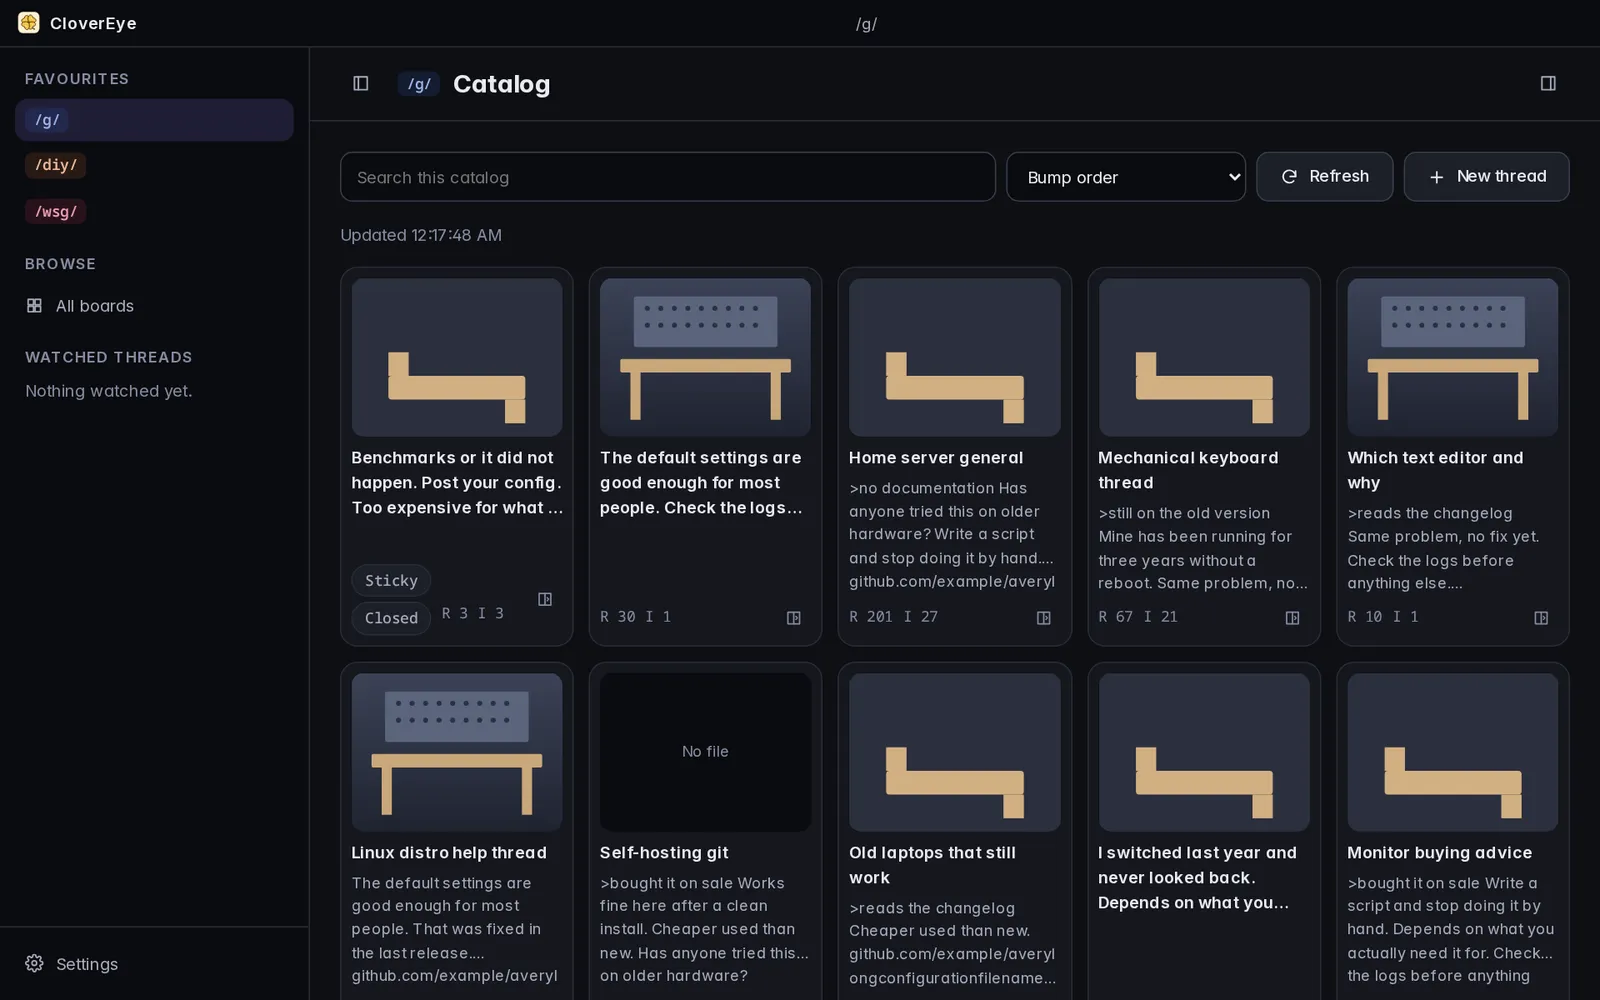
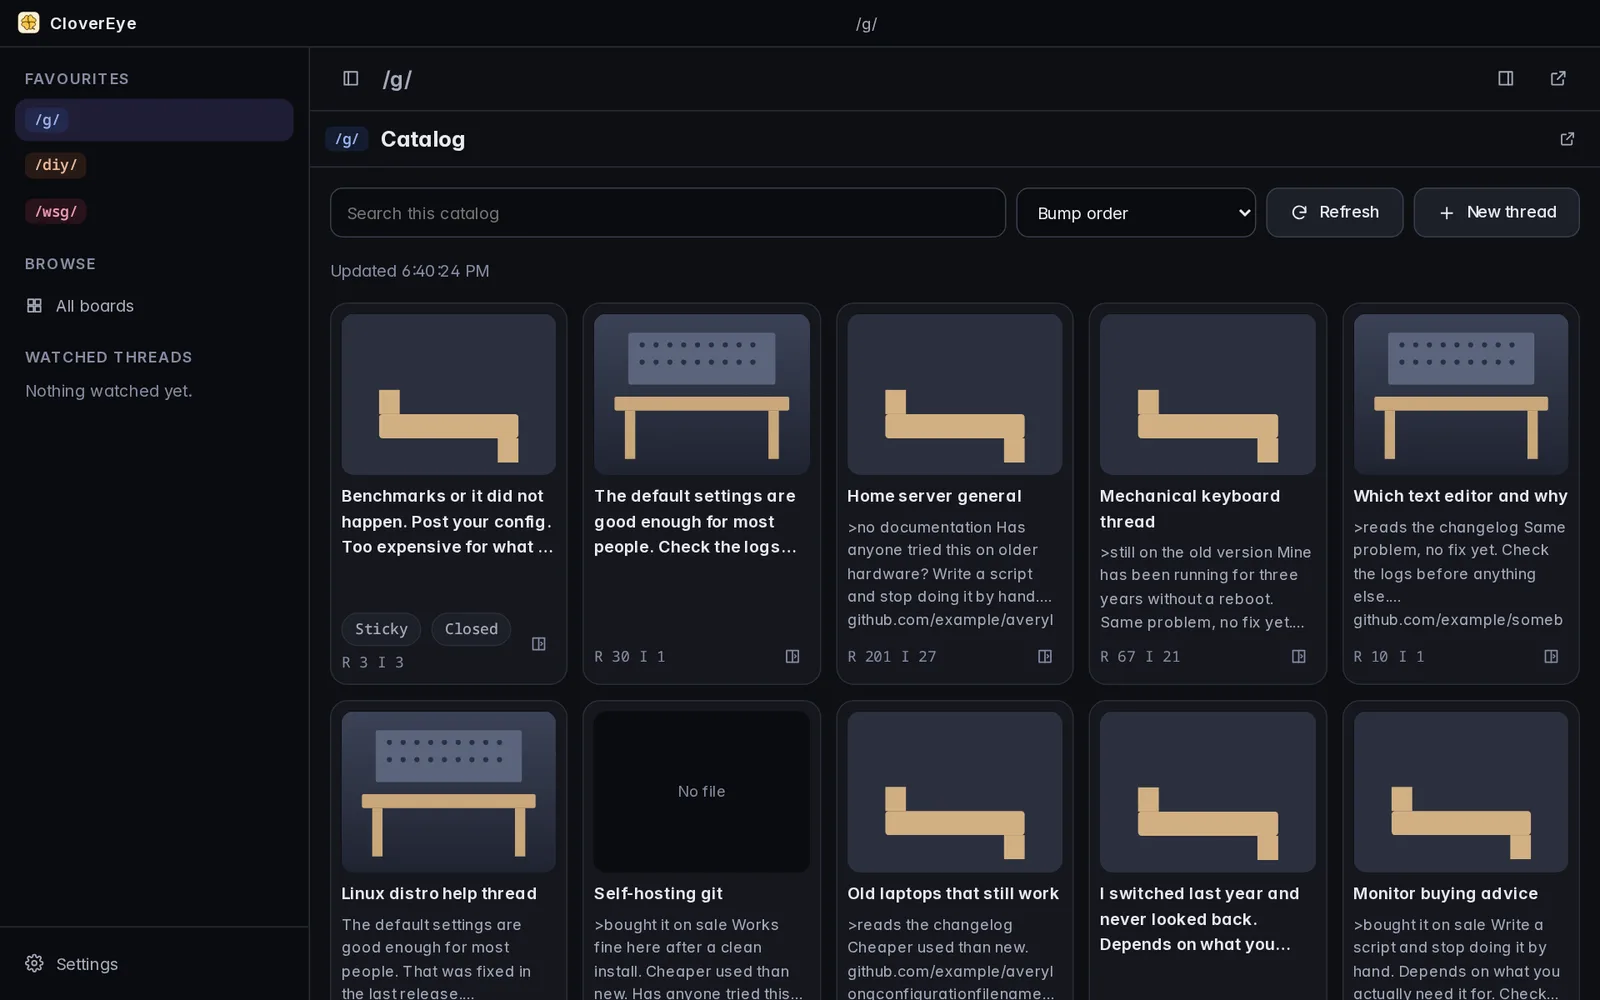
Website and README: 0.1.0 is out, new screenshots
Website: the download row offers Linux, Windows (x64 installer, MSI in the
note) and macOS (Apple silicon .dmg) from the v0.1.0 release; the test
build label and "Windows and macOS come later" are gone, and the note
says posting from the AppImage does not work yet. Screenshots retaken
from the current app on sample data: three panes, the catalog, a classic
theme with flags, the reply form with the captcha, and the gallery.

README: a download line for 0.1.0 and the same screenshots.

The preview's sample captcha shows a drawn "3" as its object to find
(was a 1-pixel placeholder).

diff --git a/index.html b/index.html
@@ -69,17 +69,22 @@
         <li>Want to post? Reply opens the site’s own form in its own window, with the site’s own captcha. CloverEye never touches it.</li>
       </ul>
 
-      <p class="version">Version <strong>0.1.0</strong> · test build · Linux · AGPL-3.0</p>
+      <p class="version">Version <strong>0.1.0</strong> · Linux · Windows · macOS · AGPL-3.0</p>
 
-      <!-- The hrefs are the no-JS path: the release page. A click opens the
-           choice between Fedora's RPMs and the AppImage. -->
+      <!-- Linux: the href is the no-JS path (the release page); a click opens
+           the choice between Fedora's RPMs and the AppImage. Windows and
+           macOS link straight to their files. -->
       <div class="downloads">
         <a class="dl-btn recommended" href="https://github.com/MiguelCarino/CloverEye/releases/latest" data-dialog="linuxDialog" aria-haspopup="dialog" aria-controls="linuxDialog">
-          <span class="rec">test build</span><b>🐧 Linux</b><span class="fmt">Fedora .rpm · AppImage</span></a>
+          <b>🐧 Linux</b><span class="fmt">Fedora .rpm · AppImage</span></a>
+        <a class="dl-btn" href="https://github.com/MiguelCarino/CloverEye/releases/download/v0.1.0/CloverEye-0.1.0-x64-setup.exe">
+          <b>⊞ Windows</b><span class="fmt">10 · 11 · x64 installer</span></a>
+        <a class="dl-btn" href="https://github.com/MiguelCarino/CloverEye/releases/download/v0.1.0/CloverEye-0.1.0-aarch64.dmg">
+          <b>⌘ macOS</b><span class="fmt">Apple silicon · .dmg</span></a>
         <a class="dl-btn" href="ui/">
           <b>▶ Try it here</b><span class="fmt">in your browser · sample data</span></a>
       </div>
-      <p class="dl-note">Fedora 44 and 45 get RPMs; any other x86-64 Linux gets one AppImage. Windows and macOS come later. The in-browser version runs on made-up sample posts and never contacts the site.</p>
+      <p class="dl-note">Fedora 44 and 45 get RPMs; any other x86-64 Linux gets one AppImage. Windows also has an <a href="https://github.com/MiguelCarino/CloverEye/releases/download/v0.1.0/CloverEye-0.1.0-x64.msi">MSI</a>; both Windows installers add WebView2 if it is missing. Posting from the AppImage does not work yet: use the RPM, or the site's own page. The in-browser version runs on made-up sample posts and never contacts the site.</p>
       <p class="dl-all"><a href="https://github.com/MiguelCarino/CloverEye/releases">All versions and changelogs →</a></p>
 
       <p class="info-chips">
@@ -96,8 +101,8 @@
   <section class="shots" aria-labelledby="shotsTitle">
     <h2 id="shotsTitle" class="section-title">What it looks like</h2>
     <figure class="shot shot--wide">
-      <img src="web/screens/split.webp" width="1600" height="1000" loading="lazy" decoding="async" alt="CloverEye with two threads side by side: the sidebar with favourite boards on the left, a thread in the middle and a second thread on the right.">
-      <figcaption>Two threads side by side. Drag the divider, or swap them.</figcaption>
+      <img src="web/screens/split.webp" width="1600" height="1000" loading="lazy" decoding="async" alt="CloverEye with three panes: the sidebar with favourite boards on the left, then a board's catalog, then two threads side by side, each with Update, Watch, Reply and Gallery at the top.">
+      <figcaption>Up to five panes per window, in one to three rows; any pane can get a window of its own.</figcaption>
     </figure>
     <div class="shot-row">
       <figure class="shot">
@@ -106,7 +111,17 @@
       </figure>
       <figure class="shot">
         <img src="web/screens/classic.webp" width="1600" height="1000" loading="lazy" decoding="async" alt="A thread in CloverEye with the classic Yotsuba colours: cream page, salmon replies, green names.">
-        <figcaption>19 themes, the classic board styles among them.</figcaption>
+        <figcaption>19 themes, the classic board styles among them; posters' flags where a board has them.</figcaption>
+      </figure>
+    </div>
+    <div class="shot-row">
+      <figure class="shot">
+        <img src="web/screens/reply.webp" width="1600" height="1000" loading="lazy" decoding="async" alt="The reply form over a thread: name, comment, attach file, and the site's captcha with a choice on the left and the object to find on the right.">
+        <figcaption>Reply from inside the app: the site's own captcha, solved in the form.</figcaption>
+      </figure>
+      <figure class="shot">
+        <img src="web/screens/gallery.webp" width="1600" height="1000" loading="lazy" decoding="async" alt="The gallery: one picture from a thread as large as the window allows, a strip of the thread's other files below, and a Save button above.">
+        <figcaption>G opens a thread's gallery: arrows or the wheel move, D saves.</figcaption>
       </figure>
     </div>
     <p class="shots-note">Screenshots of CloverEye showing sample posts made up for testing.</p>
@@ -182,7 +197,7 @@
         <li><a href="https://github.com/MiguelCarino/CloverEye/blob/main/README.md">README</a>: status, building, packages and tests.</li>
         <li><a href="https://github.com/MiguelCarino/CloverEye/blob/main/docs/SCOPE.md">Scope</a>: the design, the decisions and the phases.</li>
         <li><a href="https://github.com/MiguelCarino/CloverEye/blob/main/docs/C0-PROBE.md">API probe</a>: how the client was checked against the site’s limits.</li>
-        <li><a href="https://github.com/MiguelCarino/CloverEye/releases">Releases</a>: RPMs, the AppImage, checksums and the AppImage’s sources.</li>
+        <li><a href="https://github.com/MiguelCarino/CloverEye/releases">Releases</a>: RPMs, the AppImage and its sources, the Windows installers, the macOS disk image and checksums.</li>
         <li><a href="https://github.com/MiguelCarino/CloverEye">Source code</a> on GitHub.</li>
       </ul>
     </div>

diff --git a/ui/js/bridge.js b/ui/js/bridge.js
@@ -272,7 +272,8 @@ export function createBridge({ tauri = null, storage = null, fetchImpl = null, m
         ttl: 120,
         tasks: [
           // like the site: the object to find is a picture inside the question
[1 lines of base64/hex data omitted]
+          // (a drawn "3", made up for the preview)
[1 lines of base64/hex data omitted]
           { str: 'Pick the 7', items: [num(5), num(7), num(9)] },
         ],
       };

diff --git a/README.md b/README.md
@@ -9,7 +9,18 @@ site's rules apply to everything read and posted through it.
 
 Licence: [AGPL-3.0](LICENSE). Scope and phases: [docs/SCOPE.md](docs/SCOPE.md).
 
-## Status: reading, watching and the post window
+**Download:** [CloverEye 0.1.0](https://github.com/MiguelCarino/CloverEye/releases/tag/v0.1.0): Fedora 44/45 RPMs, an AppImage for other Linux, Windows installer and MSI, macOS (Apple silicon). Website: <https://clover.carino.systems>.
+
+![Three panes: a board's catalog and two threads side by side](web/screens/split.webp)
+
+| | |
+|---|---|
+| ![A board's catalog: thumbnails, titles, reply counts, search and sort](web/screens/catalog.webp) | ![A thread in the classic Yotsuba colours, with posters' flags](web/screens/classic.webp) |
+| ![The reply form with the site's captcha: a choice and the object to find](web/screens/reply.webp) | ![The gallery: one file as large as the window allows, the thread's files below](web/screens/gallery.webp) |
+
+<sub>Screenshots of the app showing sample posts made up for testing.</sub>
+
+## Status: 0.1.0 (reading, watching, panes, gallery, replying)
 
 | Part | State |
 |---|---|
